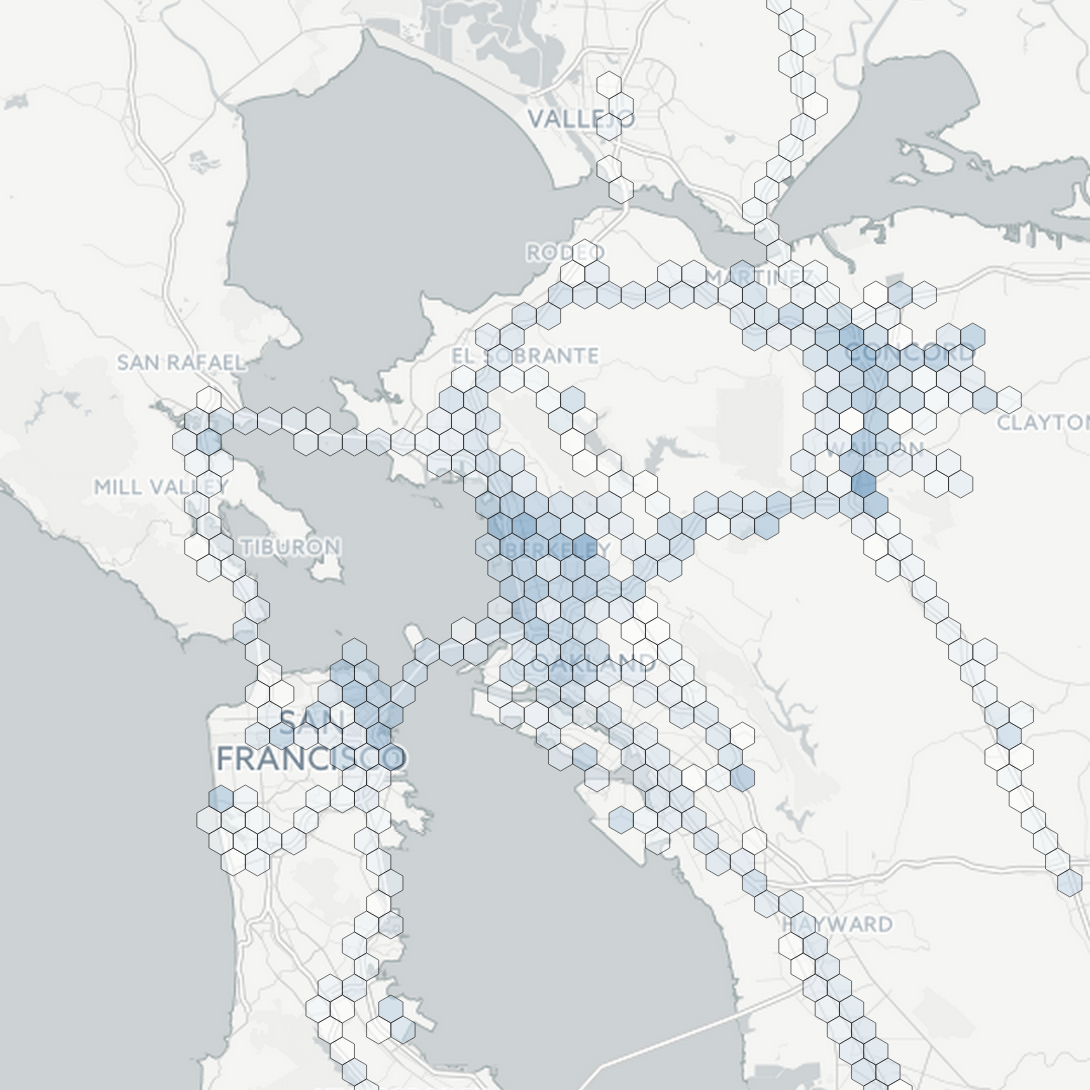
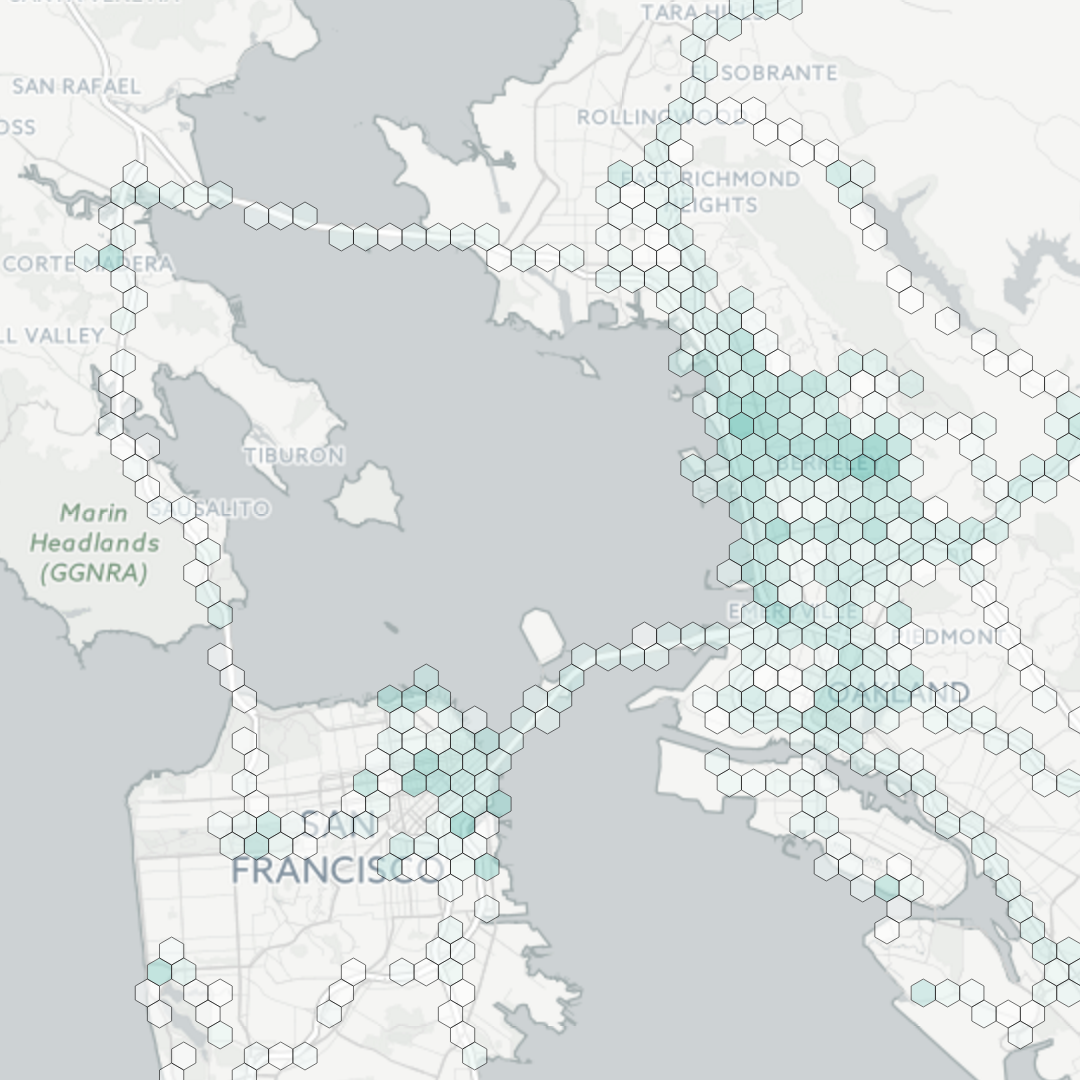
Colors and cover image for hexbin map

diff --git a/locationhistoryhex.html b/locationhistoryhex.html
@@ -181,7 +181,7 @@
         var hexLayer = L.hexbinLayer(options).addTo(map);
 
         // Set the colorScale range - colorScale() returns a reference to the scale used to map the color of each hexbin
-        hexLayer.colorScale().range(['white', '#328E82']);
+        hexLayer.colorScale().range(['white', '#3fb1a3']);
 
         // Load coordinates: random sample of 10,000
         var dataset;
